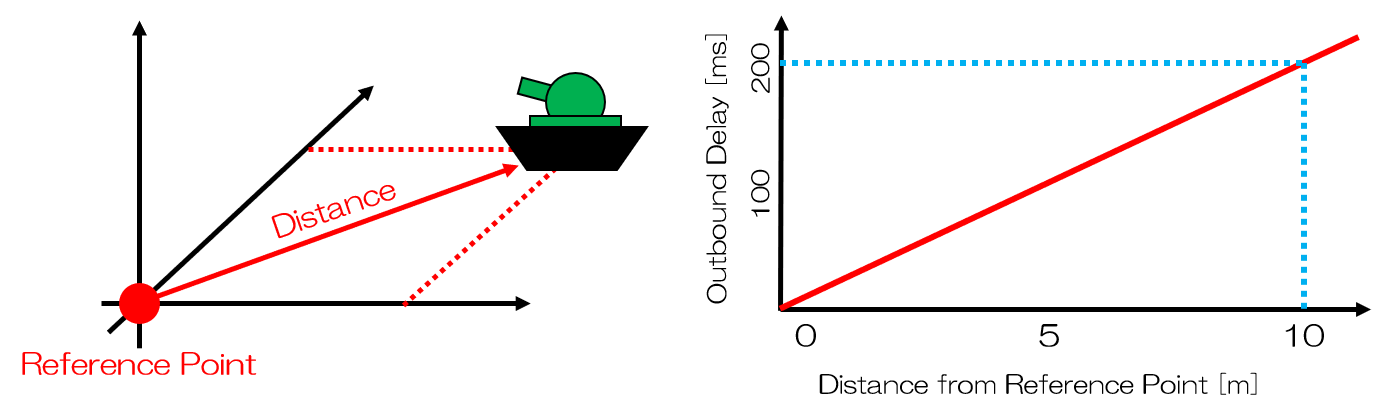
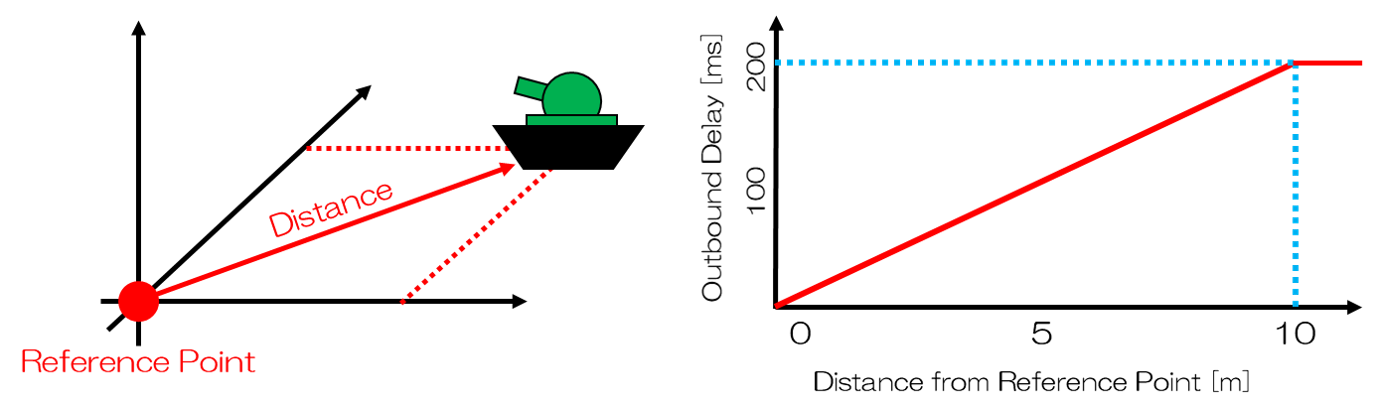
modify dynamic tc sample image

diff --git a/ja/trafficcontrol/man-trafficcontrol.rst b/ja/trafficcontrol/man-trafficcontrol.rst
@@ -133,8 +133,7 @@ DynamicTrafficControlSimulatorItemの設定項目
 
 サンプル
 --------
-TrafficControlPluginを利用したサンプルプロジェクトがchoreonoid/samples/DynamicTrafficControlPluginにあります。実行して試してみてください。
-本サンプルの動的通信障害シミュレーションでは、基準点(0,0,0)を中心とする半径10mの範囲で最大200msの通信遅延が動的に与えられます。
+DynamicTrafficControlSimulatorItemにはサンプルとして、基準点(0,0,0)を中心とする半径10mの範囲で最大200msの通信遅延が動的に与えられるように設定されています。
 
 .. figure:: image/image1.png
 
